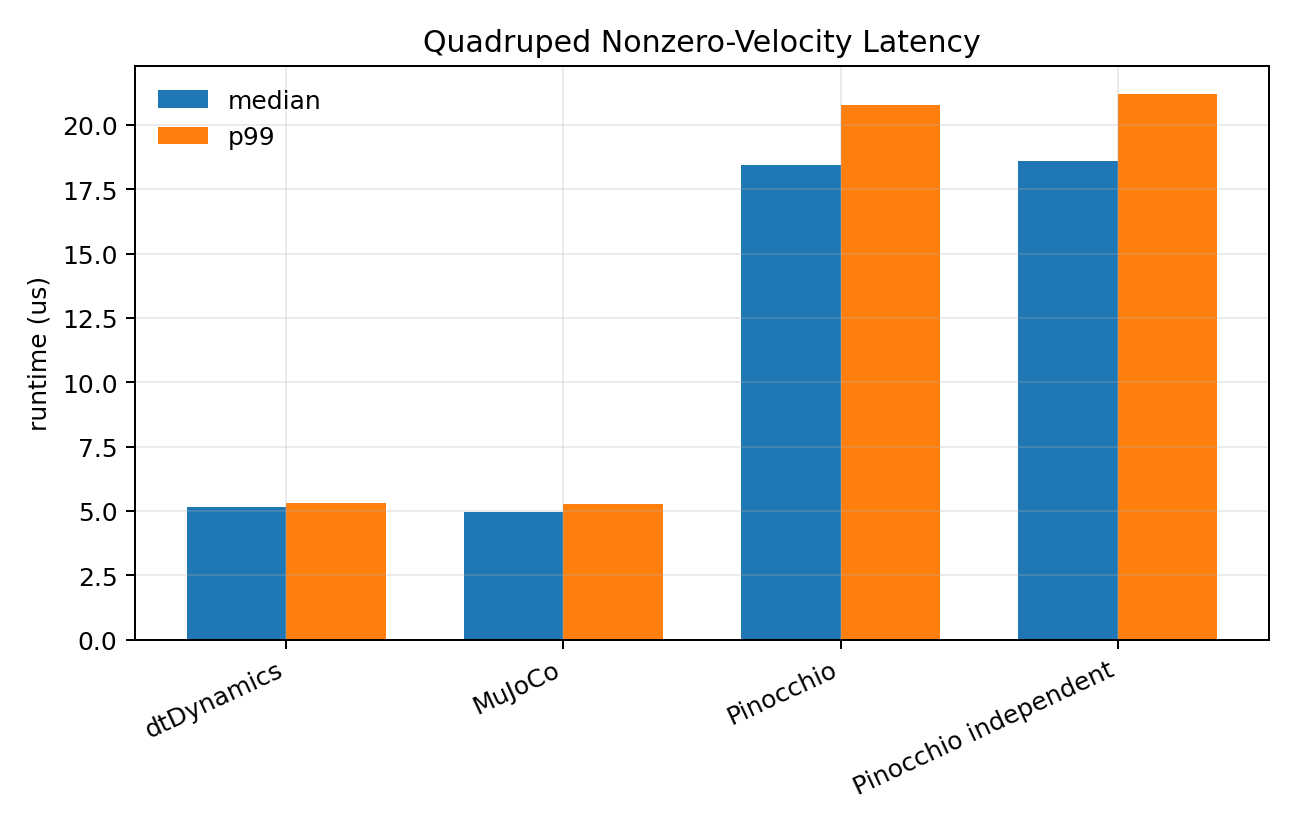
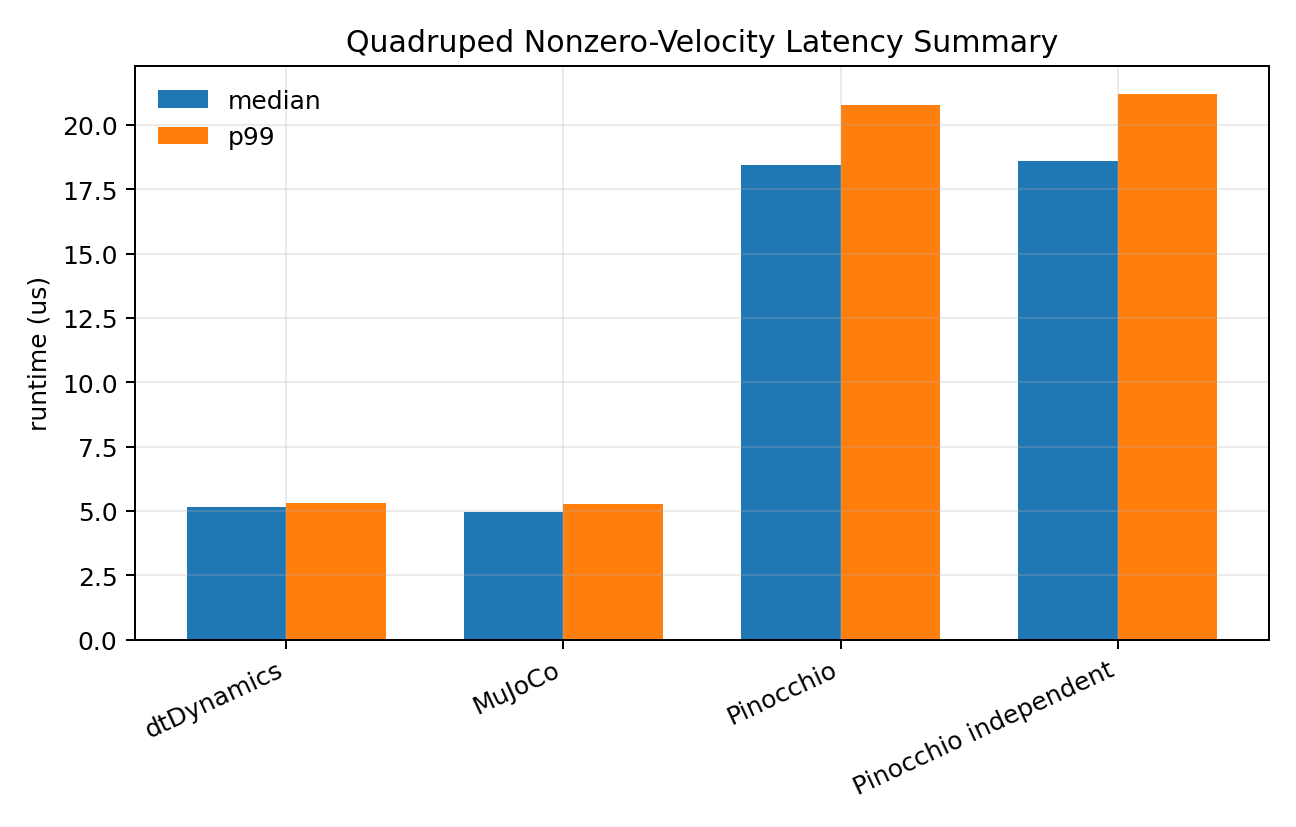
docs: place benchmark figures with results

Changed region(s): [[0.2469, 0.0302, 0.8333, 0.0605]]

diff --git a/tools/plot_benchmark_results.py b/tools/plot_benchmark_results.py
@@ -239,8 +239,8 @@ def save_stage_breakdown(stage_rows, out_dir):
         "indexed_jacobians_after_ccrba": "indexed J",
         "compute_dynamics_rnea_com_pos": "RNEA + CoM",
         "compute_dynamics_ccrba_all_terms": "CCRBA all",
-        "leoquad_reduced_ccrba": "LeoQuad mask",
-        "leoquad_wbc_update": "WBC update",
+        "leoquad_reduced_ccrba": "reduced CCRBA",
+        "leoquad_wbc_update": "reduced + indexed J",
     }
     normal_stage_rows = [row for row in stage_rows if row.get("_section") == "native_or_stage"]
     data = {
@@ -265,50 +265,6 @@ def save_stage_breakdown(stage_rows, out_dir):
     ax.legend(frameon=False)
     fig.tight_layout()
     fig.savefig(out_dir / "stage_breakdown.png", dpi=180)
-    plt.close(fig)
-
-
-def save_reference_error(error_rows, out_dir):
-    if plt is None:
-        return
-    quantities = ["Mmat", "cdof_dot", "site_jacp_dot", "site_jacr_dot", "cmAmat", "centMom"]
-    fixtures = []
-    values = {}
-    for row in error_rows:
-        if row.get("comparison_reference", row.get("reference", "")) != "mujoco" or row.get("state") != "nonzero_velocity":
-            continue
-        if row.get("status") != "ok" or row.get("quantity") not in quantities:
-            continue
-        fixture = row["fixture"]
-        if fixture not in fixtures:
-            fixtures.append(fixture)
-        values[(fixture, row["quantity"])] = as_float(row, "max_error")
-
-    fig, ax = plt.subplots(figsize=(10.5, 5.0))
-    x = list(range(len(fixtures)))
-    width = 0.12
-    for quantity_index, quantity in enumerate(quantities):
-        offset = (quantity_index - (len(quantities) - 1) / 2.0) * width
-        data = [values.get((fixture, quantity), 0.0) for fixture in fixtures]
-        ax.bar([pos + offset for pos in x], data, width=width, label=quantity)
-
-    ax.set_title("MuJoCo Reference Errors For Derivative-Like Outputs")
-    ax.set_ylabel("max abs error")
-    ax.set_xticks(x)
-    ax.set_xticklabels([fixture_label(name) for name in fixtures], rotation=25, ha="right")
-    ax.grid(axis="y", alpha=0.25)
-    ax.legend(frameon=False, ncol=3)
-    if values and all(value == 0.0 for value in values.values()):
-        ax.text(0.5,
-                0.5,
-                "All reported max absolute errors are zero at CSV precision",
-                transform=ax.transAxes,
-                ha="center",
-                va="center",
-                fontsize=10,
-                bbox={"boxstyle": "round,pad=0.4", "facecolor": "white", "edgecolor": "#777777"})
-    fig.tight_layout()
-    fig.savefig(out_dir / "reference_error_summary.png", dpi=180)
     plt.close(fig)
 
 
@@ -446,7 +402,7 @@ def save_latency_cdf(reference_rows, stage_rows, out_dir):
     else:
         ax.set_ylabel("empirical CDF")
         ax.set_xlabel("runtime (us)")
-    ax.set_title("Quadruped Nonzero-Velocity Latency")
+    ax.set_title("Quadruped Nonzero-Velocity Latency Summary")
     ax.grid(alpha=0.25)
     ax.legend(frameon=False)
     fig.tight_layout()
@@ -631,7 +587,6 @@ def main():
     save_runtime_by_fixture(native_timing_rows, reference_timing, args.out)
     save_scaling_by_dof(native_timing_rows, reference_timing, args.out)
     save_stage_breakdown(stage_rows, args.out)
-    save_reference_error(reference_error, args.out)
     save_latency_cdf(reference_rows_all, stage_rows, args.out)
     if args.tables_out is not None:
         save_tables(reference_timing, reference_error, stage_rows, args.tables_out, native_ccrba_timing_rows, resource_rows)

diff --git a/docs/benchmark-results.md b/docs/benchmark-results.md
@@ -89,19 +89,17 @@ The native CSV `scope` column prevents the three package-native calls from being
 
 For all three native scopes, mass-matrix symmetry and `nonlinTorq = coriolisTorq + gravityTorq` consistency errors were zero at benchmark output precision. Reduced/full CCRBA additionally reported zero centroidal-momentum consistency error; full CCRBA also reported zero CoM-velocity consistency error.
 
-### Figures
-
-The runtime and scaling figures include all five Part A entries. All figures are generated from the same CSV outputs as the tables:
+#### Nominal runtime by fixture
 
 ![Nominal runtime by fixture](figures/runtime_by_fixture.png)
 
+`runtime_by_fixture.png` is a grouped-bar view of the nominal median rows in the Part A table. Each fixture group contains the three dtDynamics calls plus MuJoCo and Pinocchio. Lower bars mean less elapsed time for that specific measured call sequence on this host. The gaps among RNEA, reduced CCRBA, and full CCRBA show the cost of requesting progressively different native outputs; the MuJoCo and Pinocchio bars remain contextual because their output contracts are not identical. Tail behavior is intentionally left in the table's p99 columns rather than encoded in this median-only figure.
+
+#### Runtime scaling by velocity dimension
+
 ![Runtime scaling by velocity dimension](figures/scaling_by_dof.png)
 
-![Nominal stage breakdown](figures/stage_breakdown.png)
-
-![Reference error summary](figures/reference_error_summary.png)
-
-![Quadruped nonzero-velocity latency distribution](figures/latency_cdf.png)
+`scaling_by_dof.png` plots the same nominal medians against `nv`. Every marker is a different fixture, so the connecting lines are visual guides rather than fitted complexity curves. Equal `nv` does not imply equal work: floating-base topology, body count, fixed bodies, sites, and requested outputs can change runtime. Use this plot to see broad size trends, and use the fixture table for exact morphology-aware comparisons.
 
 ### Native stage breakdown
 
@@ -138,6 +136,12 @@ A focused run for the multi-root fixtures validates the timing path for independ
 | multi_robot_floating_base | nominal | 0.649 | 0.790 | 2.663 | 0.571 | 2.031 | 0.542 | 2.401 | 2.983 | 2.917 |
 | multi_robot_floating_base | asymmetric | 0.758 | 1.160 | 10.355 | 2.153 | 3.754 | 0.823 | 3.822 | 5.192 | 5.469 |
 | multi_robot_floating_base | nonzero_velocity | 0.949 | 1.102 | 4.529 | 1.627 | 2.507 | 0.687 | 3.137 | 4.789 | 4.789 |
+
+#### Nominal stage breakdown figure
+
+![Nominal stage breakdown](figures/stage_breakdown.png)
+
+`stage_breakdown.png` compares independently timed nominal stages for the fixed-base multi-robot, floating-base multi-robot, and floating-base quadruped fixtures. It is not a stacked profile: each bar starts from the prerequisite state documented by its stage, so the bars must not be summed to reconstruct a public call. `FK`, `CCRBA prereq`, and `CCRBA extra` isolate pipeline components; `indexed J` measures selected Jacobians after dynamics preparation; `RNEA + CoM`, `CCRBA all`, and `reduced CCRBA` are complete dynamics calls with their stated masks; `reduced + indexed J` adds the selected body/site Jacobians after reduced CCRBA. The fixture-to-fixture gaps reflect topology and requested-work differences, not only `nv`.
 
 ## Part B — LeoQuad controller scope
 
@@ -268,9 +272,17 @@ Pinocchio scope: `crba`, generalized gravity, nonlinear effects, Coriolis matrix
 | pinocchio | serial_chain_30 | asymmetric | 30 | 30 | 32 | 42.402835 | 42.207000 | 45.930000 |
 | pinocchio | serial_chain_30 | nonzero_velocity | 30 | 30 | 32 | 42.415560 | 42.254000 | 45.977000 |
 
+### Quadruped nonzero-velocity latency summary
+
+![Quadruped nonzero-velocity latency summary](figures/latency_cdf.png)
+
+This figure summarizes the median and p99 latency of the reference benchmark's floating-base quadruped nonzero-velocity rows. It compares the dtDynamics reference call sequence with MuJoCo, Pinocchio, and the independent Pinocchio path; it is not the three-native-scope Part A figure. Median bars show typical measured latency, while p99 bars expose the observed tail in this process-local run. The values are evidence snapshots without CPU isolation or realtime scheduling.
+
 ## Reference Error Summary
 
 `benchmark_dtDynamicsReferences` now emits numerical error rows after the timing table. Rows with `status=ok` are numerical comparisons. Rows with `status=skipped` are explicit diagnostics for intentionally non-comparable quantities.
+
+No reference-error figure is generated because every `status=ok` max/RMS error in this run is `0.000000` at CSV output precision. The status-bearing CSV rows and the coverage/skip explanations below carry more information than an all-zero chart.
 
 MuJoCo comparisons cover:
 
